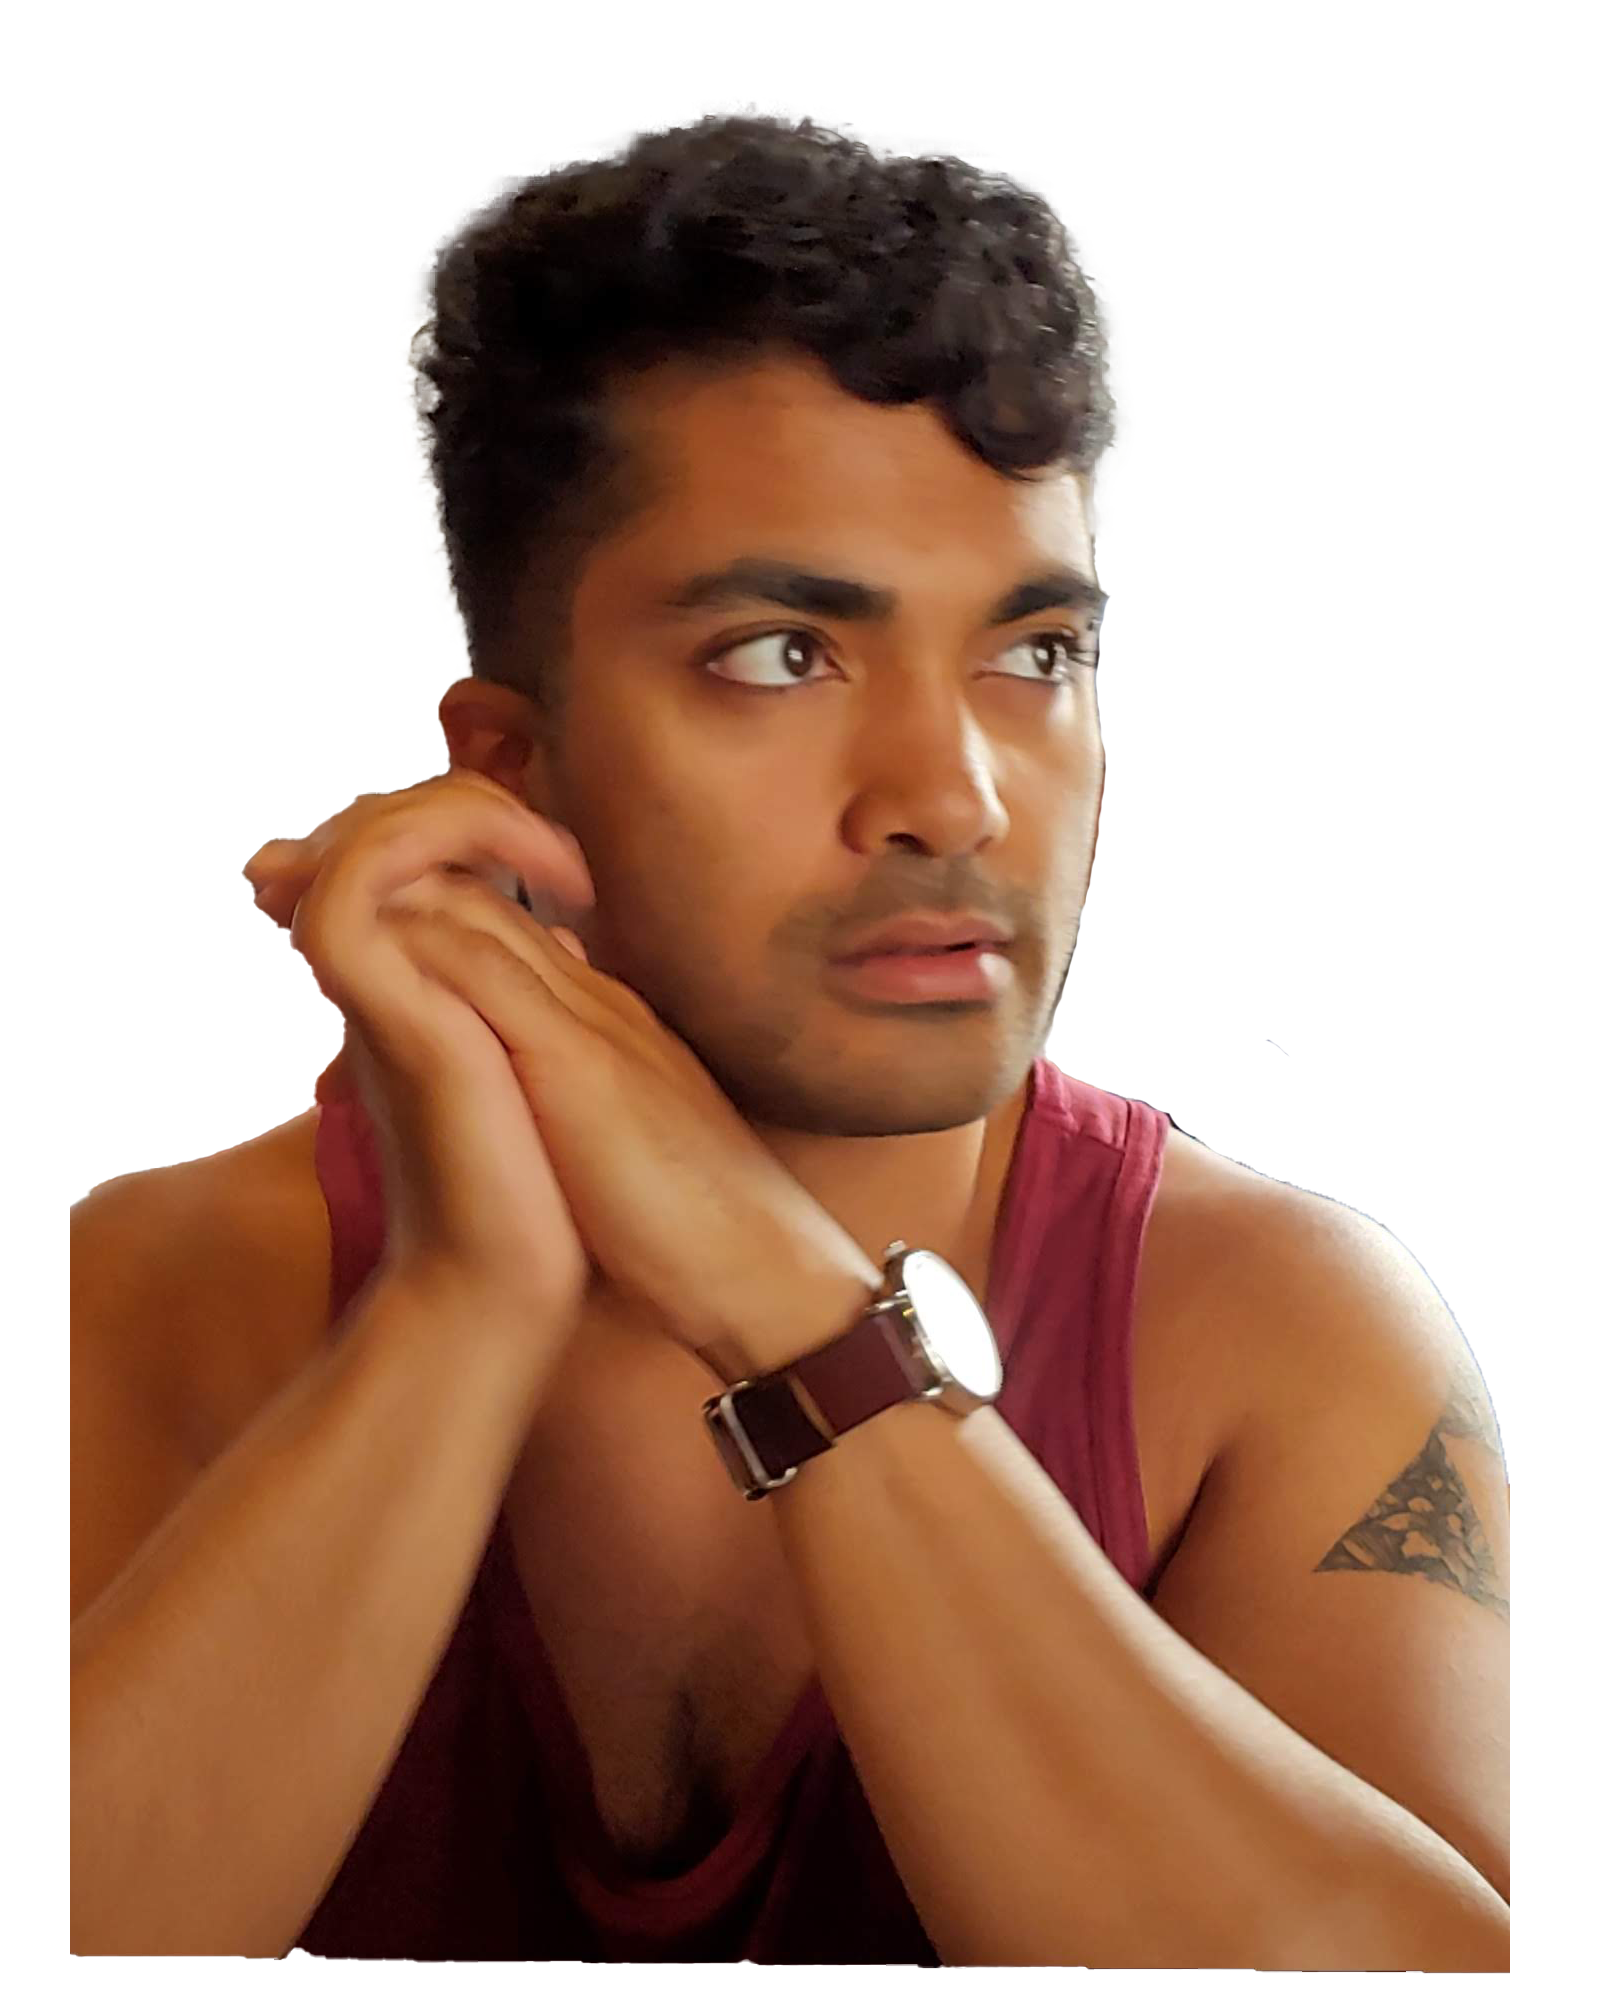
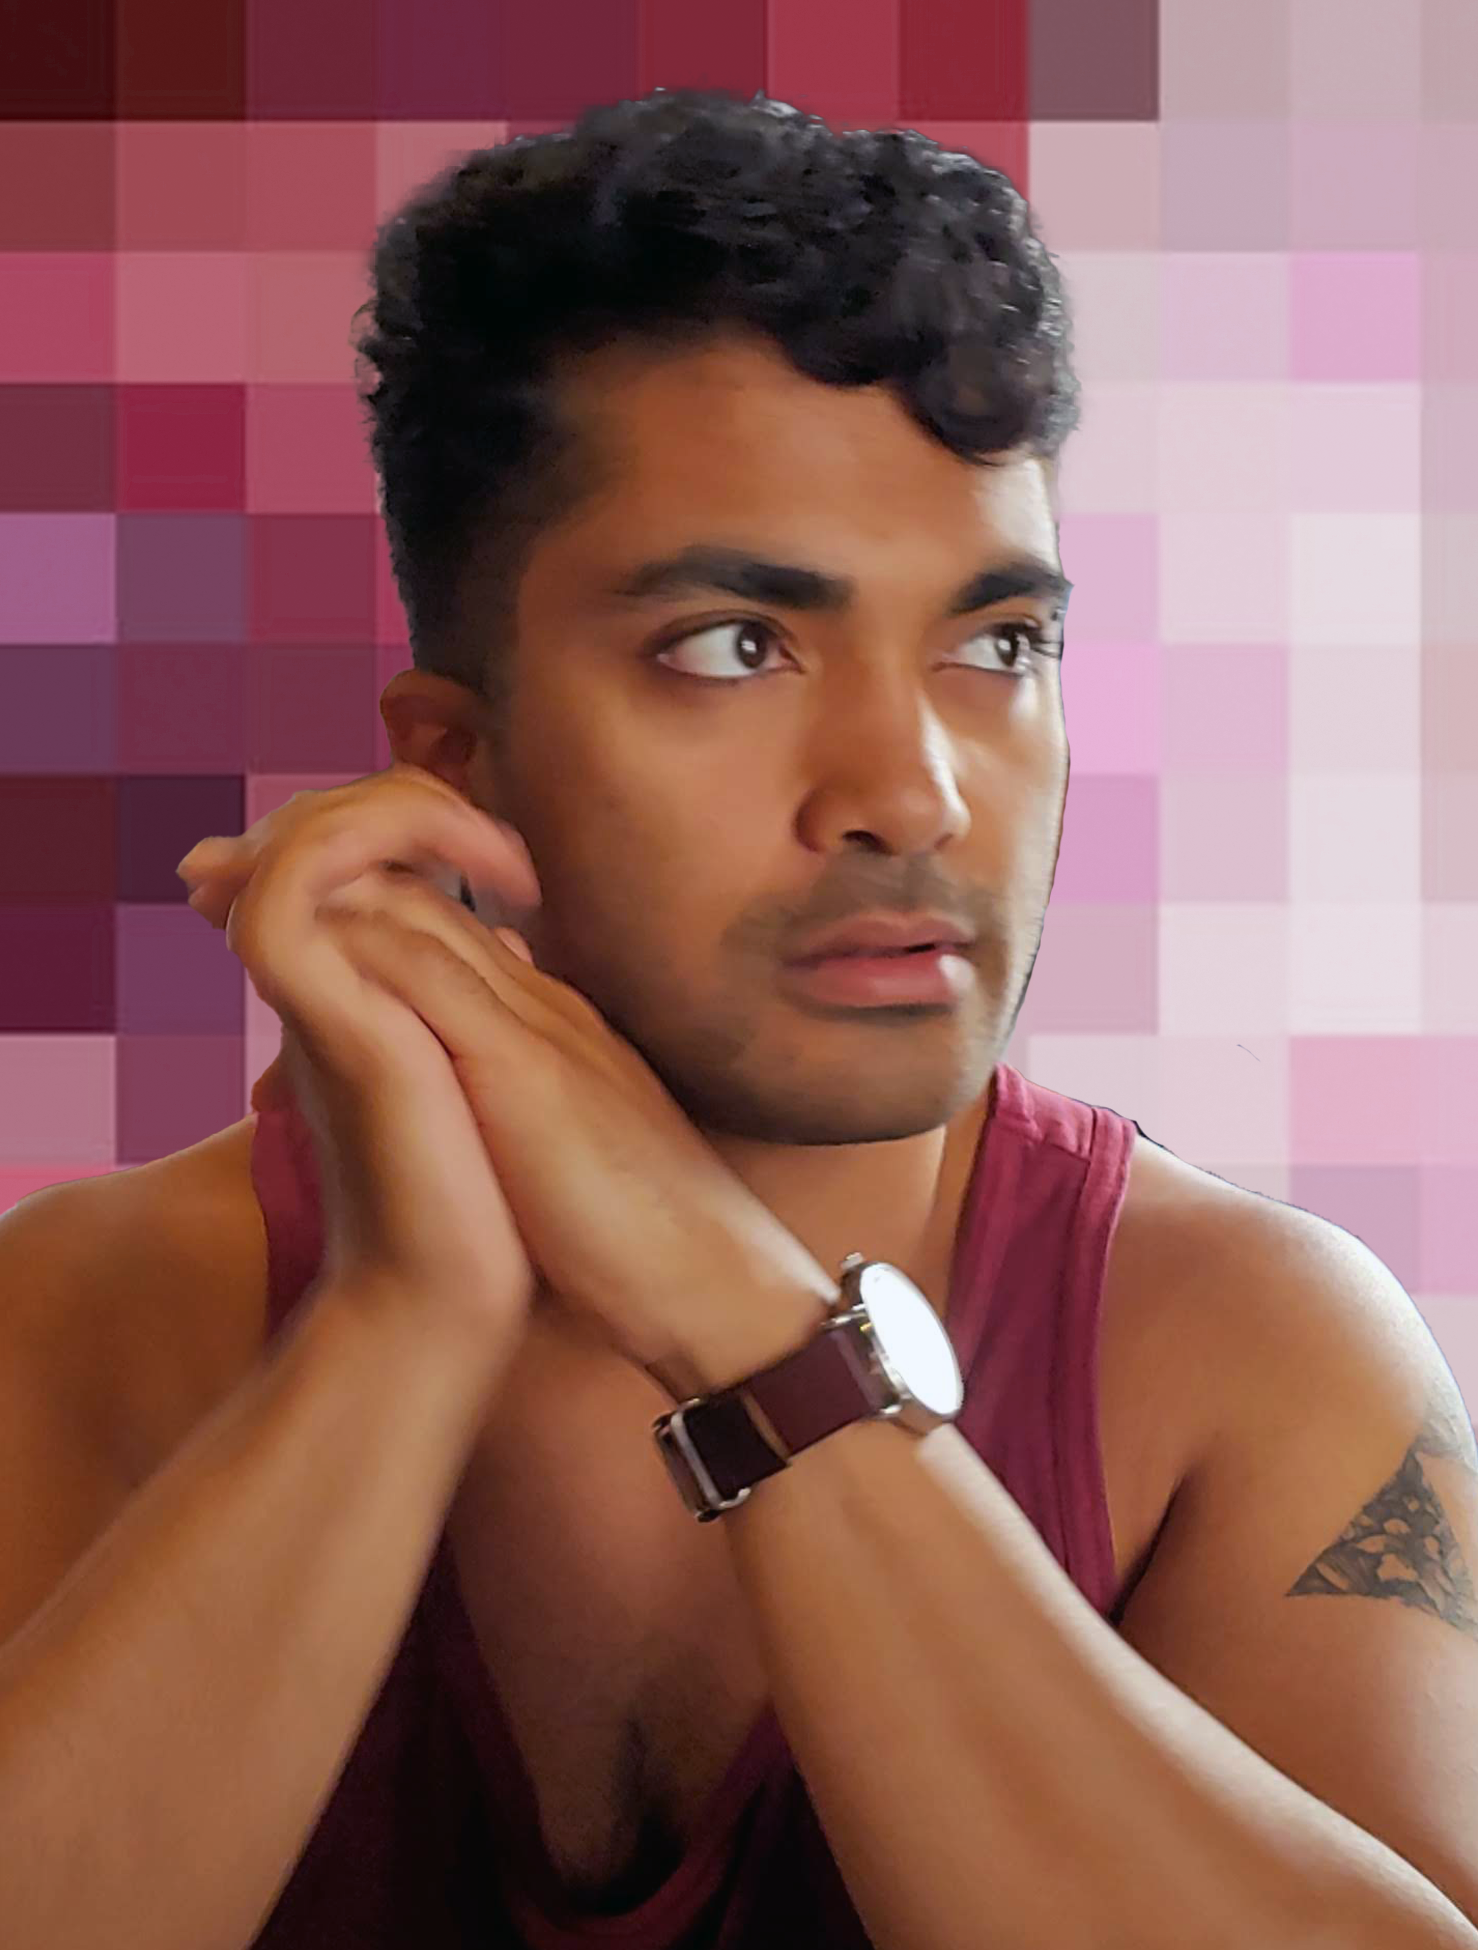
Update picture and resize render

diff --git a/index.html b/index.html
@@ -4,13 +4,13 @@
 		<title>Firas Sattar - Software Engineer Portfolio</title>
 		<meta charset="UTF-8" />
 		<link rel="stylesheet" type="text/css" href="style.css" />
-		<link rel="icon" href="frogicon.png">
+		<link rel="icon" href="images/frogicon.png">
 		<meta name="viewport" content="width=device-width, initial-scale=1.0">
 	</head>
 
 	<body>
 		<!-- SECTION: bio -->
-		<img src="self.png" height="220" width="220" class="center"></img>
+		<img src="images/self.png" height="335" width="250" class="center"></img>
 		<h2 class="intro-tagline">
 			Hello! <span class="name">I'm Firas!</span> 🧑🏾💻 <br>
 			I'm a highly skilled Software Engineer with 5+ years of experience building quality software applications at scale. A strong communicator and problem-solver with a track record of delivering robust and extensible infrastructure, I am experienced in working with complex federal, state, and agency regulations in financial and healthcare sectors.
@@ -65,6 +65,15 @@
 			<li>Developed an Oracle database-querying application in Python for monitoring telecom network traffic and generating alerts based on traffic conditions.</li>
 			<li>Wrote Python scripts to search Call Detail Records on Unix-based systems using regex-matching.</li>
 		</ul>
+
+    <!-- SECTION: projects -->
+		<h3 class="sub-header">🚀 Projects:</h3>
+		<ul>
+			<li><a href="https://github.com/choogiesaur/pso-resilience" target="_blank">PSO Resilience</a></li>
+			<li><a href="https://github.com/choogiesaur/pso-utils" target="_blank">Phantasy Star Online Python Utils</a></li>
+			<li><a href="https://github.com/choogiesaur/hgss-shiny-modifier" target="_blank">Pokemon HG/SS Shiny Encounter Rate Editor</a></li>
+			<li><a href="https://github.com/choogiesaur/mario64hacks" target="_blank">Mario 64 Hacks</a></li>
+		</ul>
 		
 		<!-- SECTION: hobbies -->
 		<h3 class="sub-header">🎨 Hobbies:</h3>
@@ -72,6 +81,7 @@
 			<li>Visual art (painting, drawing, ceramics)</li>
 			<li>Recording music (guitar, piano, singing)</li>
 			<li>Hiking, nature, travel</li>
+      <li>Video games & modding</li>
 		</ul>
 	</body>
 </html>
